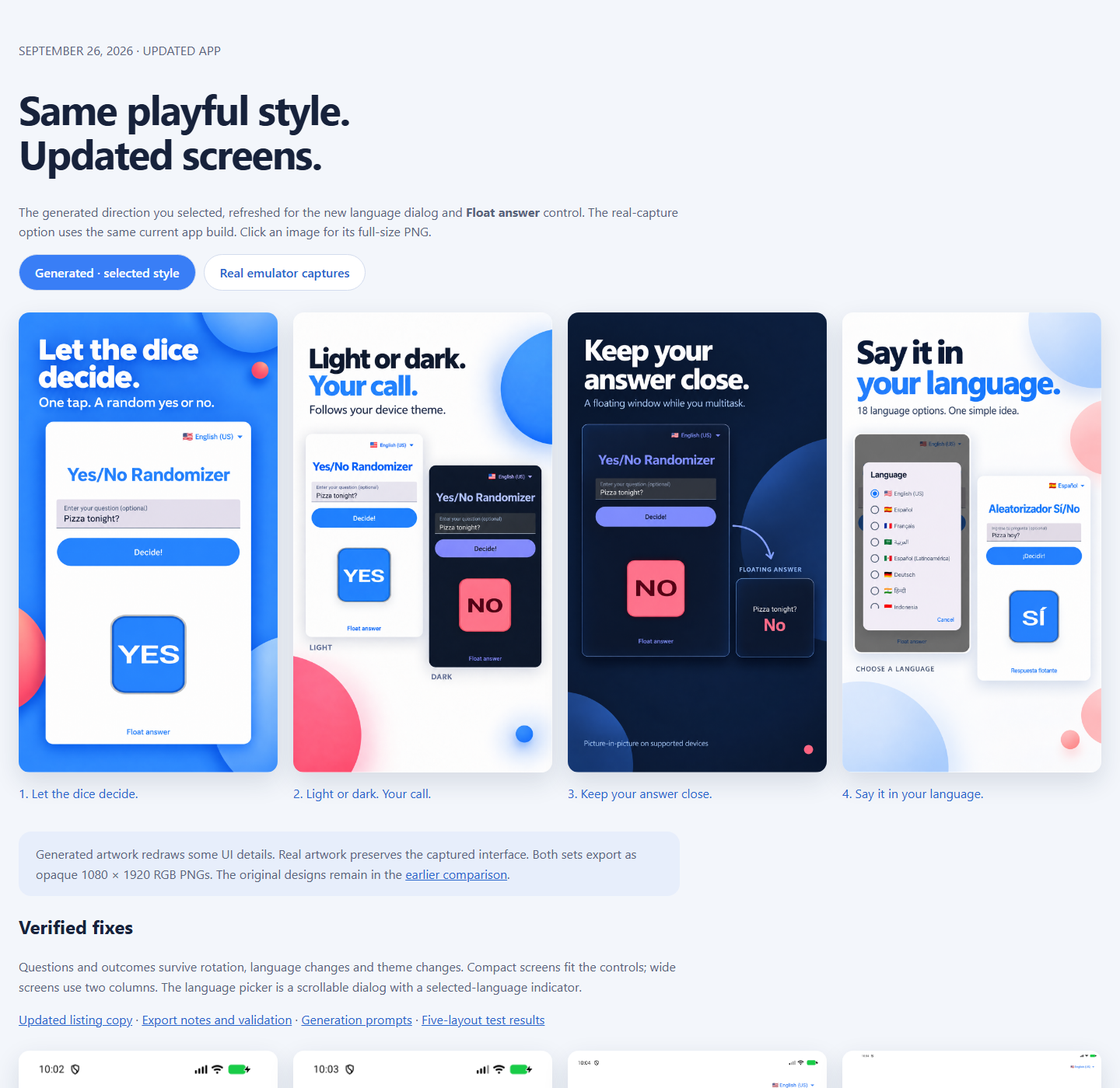
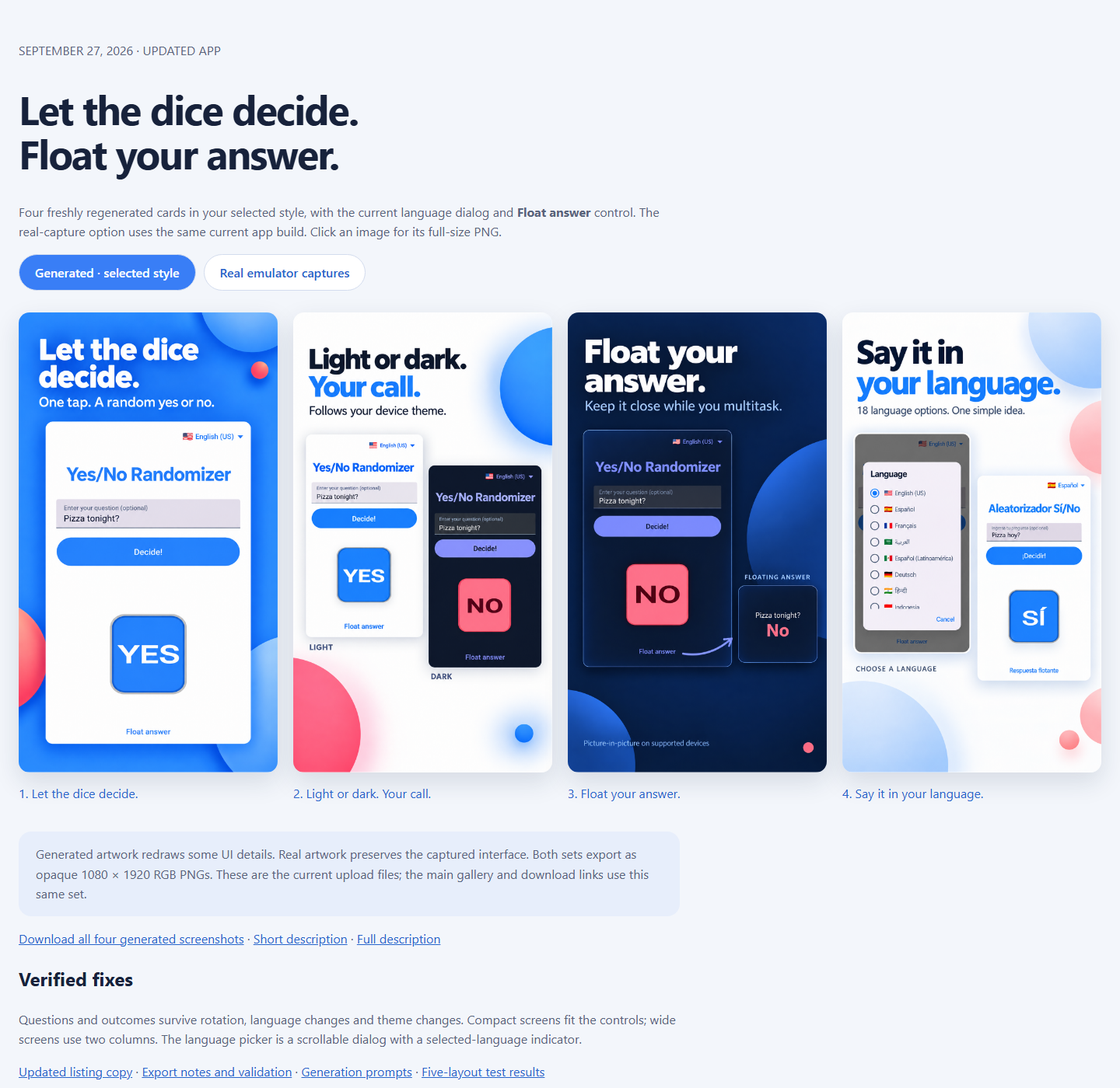
Regenerate store artwork and replace stale screenshot entry points

diff --git a/store-assets/2026-09/updated/review/browser-qa.html b/store-assets/2026-09/updated/review/browser-qa.html
@@ -1,34 +1,54 @@
 <!DOCTYPE html>
-<html lang="en" data-qa="passed"><head><meta charset="utf-8"><meta name="viewport" content="width=device-width, initial-scale=1">
+<html lang="en" data-qa="passed"><head><meta charset="utf-8">
+<meta name="viewport" content="width=device-width, initial-scale=1">
 <title>Yes/No Randomizer — updated store screenshots</title>
 <style>
-*{box-sizing:border-box}body{margin:0;background:#f3f6fb;color:#17223b;font:16px/1.6 'Segoe UI',sans-serif}main{max-width:1450px;margin:auto;padding:36px 24px}h1{font-size:clamp(32px,4vw,52px);line-height:1.08;letter-spacing:-1.8px}p{max-width:850px;color:#58647b}button,a{color:#2765cc}button{border:1px solid #d3dcee;border-radius:30px;background:white;padding:12px 20px;cursor:pointer;font:600 16px 'Segoe UI'}button.active{background:#397ef6;color:white}.grid{display:grid;grid-template-columns:repeat(4,1fr);gap:20px;margin:28px 0}.grid img{width:100%;border-radius:14px;box-shadow:0 12px 32px #172b4922}.grid a{text-decoration:none}.grid span{display:block;padding:8px 0}.note{background:#e7eefb;border-radius:16px;padding:16px 22px}footer{margin:40px 0 12px;color:#63718b}nav{display:flex;gap:10px;flex-wrap:wrap}@media(max-width:900px){.grid{grid-template-columns:repeat(2,1fr)}}@media(max-width:500px){.grid{grid-template-columns:1fr}}
-</style></head><body><main>
-<p>SEPTEMBER 26, 2026 · UPDATED APP</p><h1>Same playful style.<br>Updated screens.</h1>
-<p>The generated direction you selected, refreshed for the new language dialog and <strong>Float answer</strong> control. The real-capture option uses the same current app build. Click an image for its full-size PNG.</p>
-<nav><button class="active" data-kind="generated">Generated · selected style</button><button data-kind="real" class="">Real emulator captures</button></nav>
-<div class="grid" id="cards"><a href="phone/generated/01.png"><img src="phone/generated/01.png" alt="Let the dice decide."><span>1. Let the dice decide.</span></a><a href="phone/generated/02.png"><img src="phone/generated/02.png" alt="Light or dark. Your call."><span>2. Light or dark. Your call.</span></a><a href="phone/generated/03.png"><img src="phone/generated/03.png" alt="Keep your answer close."><span>3. Keep your answer close.</span></a><a href="phone/generated/04.png"><img src="phone/generated/04.png" alt="Say it in your language."><span>4. Say it in your language.</span></a></div>
-<p class="note">Generated artwork redraws some UI details. Real artwork preserves the captured interface. Both sets export as opaque 1080 × 1920 RGB PNGs. The original designs remain in the <a href="../index.html">earlier comparison</a>.</p>
-<h2>Verified fixes</h2><p>Questions and outcomes survive rotation, language changes and theme changes. Compact screens fit the controls; wide screens use two columns. The language picker is a scrollable dialog with a selected-language indicator.</p>
-<p><a href="../listing-en-US.md">Updated listing copy</a> · <a href="README.md">Export notes and validation</a> · <a href="generation-prompts.md">Generation prompts</a> · <a href="layout-checks/results.json">Five-layout test results</a></p>
-<div class="grid" id="layouts"><a href="layout-checks/compact-portrait.png"><img loading="lazy" src="layout-checks/compact-portrait.png" alt="compact-portrait"><span>compact portrait</span></a><a href="layout-checks/compact-landscape.png"><img loading="lazy" src="layout-checks/compact-landscape.png" alt="compact-landscape"><span>compact landscape</span></a><a href="layout-checks/tablet-portrait.png"><img loading="lazy" src="layout-checks/tablet-portrait.png" alt="tablet-portrait"><span>tablet portrait</span></a><a href="layout-checks/tablet-landscape.png"><img loading="lazy" src="layout-checks/tablet-landscape.png" alt="tablet-landscape"><span>tablet landscape</span></a></div>
-<footer>All 18 device tests passed on one Android 17 emulator. Display overrides simulate the form factors shown. No Play Console changes made.</footer>
-</main><script>
-const names=['Let the dice decide.','Light or dark. Your call.','Keep your answer close.','Say it in your language.'];
-function show(kind){document.querySelectorAll('[data-kind]').forEach(b=>b.classList.toggle('active',b.dataset.kind===kind));document.getElementById('cards').innerHTML=names.map((n,i)=>`<a href="phone/${kind}/0${i+1}.png"><img src="phone/${kind}/0${i+1}.png" alt="${n}"><span>${i+1}. ${n}</span></a>`).join('')}
-document.querySelectorAll('[data-kind]').forEach(b=>b.onclick=()=>show(b.dataset.kind));show('generated');
-document.getElementById('layouts').innerHTML=['compact-portrait','compact-landscape','tablet-portrait','tablet-landscape'].map(n=>`<a href="layout-checks/${n}.png"><img loading="lazy" src="layout-checks/${n}.png" alt="${n}"><span>${n.replaceAll('-',' ')}</span></a>`).join('');
-if(new URLSearchParams(location.search).has('qa')) window.addEventListener('load',async()=>{
-  try{
-    for(const kind of ['real','generated']){
-      document.querySelector(`[data-kind="${kind}"]`).click();
-      await Promise.all([...document.querySelectorAll('#cards img')].map(img=>new Promise((resolve,reject)=>{
-        const probe=new Image();probe.onload=()=>probe.naturalWidth===1080&&probe.naturalHeight===1920?resolve():reject(Error('Wrong dimensions'));probe.onerror=reject;probe.src=img.src;
-      })));
-      if(!document.querySelector(`[data-kind="${kind}"]`).classList.contains('active'))throw Error('View toggle failed');
-    }
-    document.documentElement.dataset.qa='passed';
-  }catch(error){document.documentElement.dataset.qa='failed';document.documentElement.dataset.error=String(error)}
-});
+    *{box-sizing:border-box}body{margin:0;background:#f3f6fb;color:#17223b;font:16px/1.6 'Segoe UI',sans-serif}main{max-width:1450px;margin:auto;padding:36px 24px}h1{font-size:clamp(32px,4vw,52px);line-height:1.08;letter-spacing:-1.8px}p{max-width:850px;color:#58647b}button,a{color:#2765cc}button{border:1px solid #d3dcee;border-radius:30px;background:white;padding:12px 20px;cursor:pointer;font:600 16px 'Segoe UI'}button.active{background:#397ef6;color:white}.grid{display:grid;grid-template-columns:repeat(4,1fr);gap:20px;margin:28px 0}.grid img{width:100%;border-radius:14px;box-shadow:0 12px 32px #172b4922}.grid a{text-decoration:none}.grid span{display:block;padding:8px 0}.note{background:#e7eefb;border-radius:16px;padding:16px 22px}footer{margin:40px 0 12px;color:#63718b}nav{display:flex;gap:10px;flex-wrap:wrap}@media(max-width:900px){.grid{grid-template-columns:repeat(2,1fr)}}@media(max-width:500px){.grid{grid-template-columns:1fr}}
+</style>
+</head><body><main>
+    <p>SEPTEMBER 27, 2026 · UPDATED APP</p>
+    <h1>Let the dice decide.<br>Float your answer.</h1>
+    <p>Four freshly regenerated cards in your selected style, with the current language dialog and
+        <strong>Float answer</strong> control. The real-capture option uses the same current app
+        build. Click an image for its full-size PNG.</p>
+    <nav>
+        <button class="active" data-kind="generated">Generated · selected style</button>
+        <button data-kind="real" class="">Real emulator captures</button>
+    </nav>
+    <div class="grid" id="cards"><a href="phone/generated/01.png"><img src="phone/generated/01.png" alt="Let the dice decide."><span>1. Let the dice decide.</span></a><a href="phone/generated/02.png"><img src="phone/generated/02.png" alt="Light or dark. Your call."><span>2. Light or dark. Your call.</span></a><a href="phone/generated/03.png"><img src="phone/generated/03.png" alt="Float your answer."><span>3. Float your answer.</span></a><a href="phone/generated/04.png"><img src="phone/generated/04.png" alt="Say it in your language."><span>4. Say it in your language.</span></a></div>
+    <p class="note">Generated artwork redraws some UI details. Real artwork preserves the captured
+        interface. Both sets export as opaque 1080 × 1920 RGB PNGs. These are the current upload
+        files; the main gallery and download links use this same set.</p>
+    <p><a href="../generated-screenshots.zip" download="">Download all four generated screenshots</a>
+        · <a href="../copy/short-description.txt">Short description</a> · <a href="../copy/full-description.txt">Full description</a></p>
+    <h2>Verified fixes</h2>
+    <p>Questions and outcomes survive rotation, language changes and theme changes. Compact screens
+        fit the controls; wide screens use two columns. The language picker is a scrollable dialog
+        with a selected-language indicator.</p>
+    <p><a href="../listing-en-US.md">Updated listing copy</a> · <a href="README.md">Export notes and
+        validation</a> · <a href="generation-prompts-2026-09-27.md">Generation prompts</a> · <a href="layout-checks/results.json">Five-layout test results</a></p>
+    <div class="grid" id="layouts"><a href="layout-checks/compact-portrait.png"><img loading="lazy" src="layout-checks/compact-portrait.png" alt="compact-portrait"><span>compact portrait</span></a><a href="layout-checks/compact-landscape.png"><img loading="lazy" src="layout-checks/compact-landscape.png" alt="compact-landscape"><span>compact landscape</span></a><a href="layout-checks/tablet-portrait.png"><img loading="lazy" src="layout-checks/tablet-portrait.png" alt="tablet-portrait"><span>tablet portrait</span></a><a href="layout-checks/tablet-landscape.png"><img loading="lazy" src="layout-checks/tablet-landscape.png" alt="tablet-landscape"><span>tablet landscape</span></a></div>
+    <footer>App verification: all 19 device tests passed on one Android 17 emulator. Display
+        overrides simulate the form factors shown. No Play Console changes made.
+    </footer>
+</main>
+<script>
+    const names=['Let the dice decide.','Light or dark. Your call.','Float your answer.','Say it in your language.'];
+    function show(kind){document.querySelectorAll('[data-kind]').forEach(b=>b.classList.toggle('active',b.dataset.kind===kind));document.getElementById('cards').innerHTML=names.map((n,i)=>`<a href="phone/${kind}/0${i+1}.png"><img src="phone/${kind}/0${i+1}.png" alt="${n}"><span>${i+1}. ${n}</span></a>`).join('')}
+    document.querySelectorAll('[data-kind]').forEach(b=>b.onclick=()=>show(b.dataset.kind));show('generated');
+    document.getElementById('layouts').innerHTML=['compact-portrait','compact-landscape','tablet-portrait','tablet-landscape'].map(n=>`<a href="layout-checks/${n}.png"><img loading="lazy" src="layout-checks/${n}.png" alt="${n}"><span>${n.replaceAll('-',' ')}</span></a>`).join('');
+    if(new URLSearchParams(location.search).has('qa')) window.addEventListener('load',async()=>{
+      try{
+        for(const kind of ['real','generated']){
+          document.querySelector(`[data-kind="${kind}"]`).click();
+          await Promise.all([...document.querySelectorAll('#cards img')].map(img=>new Promise((resolve,reject)=>{
+            const probe=new Image();probe.onload=()=>probe.naturalWidth===1080&&probe.naturalHeight===1920?resolve():reject(Error('Wrong dimensions'));probe.onerror=reject;probe.src=img.src;
+          })));
+          if(!document.querySelector(`[data-kind="${kind}"]`).classList.contains('active'))throw Error('View toggle failed');
+        }
+        document.documentElement.dataset.qa='passed';
+      }catch(error){document.documentElement.dataset.qa='failed';document.documentElement.dataset.error=String(error)}
+    });
 </script>
+
 </body></html>

diff --git a/store-assets/2026-09/index.html b/store-assets/2026-09/index.html
@@ -1,38 +1,13 @@
-<!doctype html><html lang="en"><meta charset="utf-8"><meta name="viewport" content="width=device-width, initial-scale=1"><title>Yes/No Randomizer — Store refresh</title>
-<style>
-*{box-sizing:border-box}body{margin:0;background:#f3f6fb;color:#17223b;font:16px/1.55 'Segoe UI',sans-serif}main{max-width:1280px;margin:auto;padding:42px 26px}h1{font-size:clamp(30px,4vw,48px);line-height:1.1;letter-spacing:-1.7px;margin:10px 0 20px}h2{font-size:25px;margin:40px 0 14px}p{max-width:900px;color:#536079}.eyebrow{font-weight:700;font-size:13px;color:#397ef6;letter-spacing:2px}.controls{display:flex;gap:10px;flex-wrap:wrap;margin:24px 0;position:sticky;top:0;padding:14px 0;background:#f3f6fbf2;backdrop-filter:blur(10px);z-index:2}button,.link{border:1px solid #d3dcee;border-radius:30px;background:white;color:#263e66;padding:10px 17px;font:600 14px 'Segoe UI';cursor:pointer;text-decoration:none}button.active{background:#397ef6;border-color:#397ef6;color:white}.comparison{display:grid;grid-template-columns:1fr 1fr;gap:28px;max-width:1050px;margin:auto}.column{min-width:0}.column h3{font-size:18px;margin:0 0 7px}.column p{font-size:14px;margin:0 0 18px}.column img{display:block;width:100%;border-radius:14px;box-shadow:0 12px 38px #172b4922}.column a{color:#397ef6}.note{background:#e7eefb;padding:17px 22px;border-radius:16px;margin-top:24px}.strip{display:grid;grid-template-columns:repeat(4,1fr);gap:14px}.strip img{width:100%;border-radius:9px}.strip span{display:block;font-size:13px;color:#5e6d85}details{background:white;border:1px solid #dbe3ef;padding:16px 20px;border-radius:14px;margin-top:16px}summary{font-weight:650;cursor:pointer}.copy{white-space:pre-line;font-size:16px;max-width:820px}table{width:100%;border-collapse:collapse;font-size:14px}td,th{text-align:left;border-bottom:1px solid #dce4f0;padding:12px}footer{margin-top:40px;font-size:13px;color:#63718b}a{color:#2765cc}.solo .comparison{grid-template-columns:1fr;max-width:540px}.solo.real .generated,.solo.generated .real{display:none}@media(max-width:620px){main{padding:26px 14px}.comparison{gap:12px}.column h3{font-size:16px}.column p{font-size:12px}.strip{grid-template-columns:repeat(2,1fr)}h1{letter-spacing:-1px}td,th{padding:8px}}
-</style>
-<main><div class="eyebrow">YES/NO RANDOMIZER · STORE REFRESH</div><h1>Same story. Two visual directions.</h1><p>Four matching cards: a playful first impression, light and dark themes, the floating answer, and language selection. Compare AI-generated artwork with layouts assembled from actual emulator captures.</p>
-<div class="controls" aria-label="Screenshot selection"><button data-card="01" class="active">1 · Decide</button><button data-card="02">2 · Themes</button><button data-card="03">3 · Floating answer</button><button data-card="04">4 · Languages</button><button id="mode">View: side by side</button></div>
-<div class="comparison"><section class="column generated"><h3>A · AI-generated</h3><p>Richer shading and depth. UI is redrawn; use as a design option.</p><a id="generated-link" href="phone/generated/01.png" target="_blank"><img id="generated" src="phone/generated/01.png" alt="AI-generated decision screenshot artwork"></a></section><section class="column real"><h3>B · Real screenshots</h3><p>Actual captured UI with editable typography and decoration. Recommended for upload.</p><a id="real-link" href="phone/real/01.png" target="_blank"><img id="real" src="phone/real/01.png" alt="Actual app screenshot with promotional typography"></a></section></div>
-<p class="note"><strong>My recommendation: B for the store.</strong> A adds appealing depth, but changes the die shading and UI spacing; its theme card also introduces language-picker chevrons that are absent in the app. B preserves the captured interface. All eight comparison exports are opaque RGB PNGs at 1080 × 1920.</p>
-<p class="note"><strong>Updated app and artwork:</strong> <a href="updated/index.html">Open the September 26 gallery</a>. The comparison on this page is the original review; the issues described below have now been fixed.</p>
-<h2>The real-capture sequence</h2><div class="strip" id="real-strip"></div>
-<h2>The generated sequence</h2><div class="strip" id="generated-strip"></div>
-<h2>Stronger listing copy</h2><p>Keep <strong>Yes/No Randomizer</strong> as the title. Describe the dice, floating answer, themes, and language picker instead of relying on generic promises.</p><p class="note"><strong>Short description</strong><br>Roll the dice for a random yes or no. Make everyday choices a little more fun.</p><a class="link" href="listing-en-US.md">Full description and rationale</a>
-<h2>What the emulator comparison revealed</h2><table><thead><tr><th>Configuration</th><th>Observed behavior</th><th>Improvement worth making</th></tr></thead><tbody><tr><td>XL phone · 448 × 997 dp</td><td>All primary controls fit; generous vertical whitespace.</td><td>Keep a clear relationship between the question and result.</td></tr><tr><td>Phone · 432 × 768 dp</td><td>Title stays on one line and complete result fits.</td><td>Good basis for the current screenshot set.</td></tr><tr><td>Compact · 360 × 640 dp</td><td>Title wraps and die extends below the initial viewport.</td><td>Reduce title size, margins and die size on shorter screens.</td></tr><tr><td>Compact landscape · 640 × 360 dp</td><td>Question/button and result require separate scroll positions.</td><td>Use a two-column landscape layout.</td></tr><tr><td>Tablet portrait · 720 × 1280 dp</td><td>Button and input stretch across a wide screen; die stays relatively small.</td><td>Cap the form width and balance the main content.</td></tr><tr><td>Tablet landscape · 1280 × 720 dp</td><td>Very wide controls; Minimize requires scrolling.</td><td>Use side-by-side form and result areas.</td></tr></tbody></table>
-<p>These are actual runs on one Android 17 emulator with display-size/density overrides—not separate physical-device certifications. Dark-mode changes also reset the completed die to the initial ellipsis while retaining the question.</p>
-<details><summary>See raw evidence and plain tablet screenshots</summary><p><a href="raw/compact-portrait.png">Compact portrait</a> · <a href="raw/compact-landscape-top.png">Landscape top</a> · <a href="raw/compact-landscape-scrolled.png">Landscape scrolled</a> · <a href="raw/tablet-landscape-light-clean.png">Tablet landscape</a> · <a href="raw/phone-pip-home.png">Real floating window</a> · <a href="review/current-play-01.png">Existing store screenshot</a></p><div class="strip" id="tablet-strip"></div></details>
-<details><summary>Export and source files</summary><p><a href="README.md">Package notes and upload order</a> · <a href="audit.md">App/listing review</a> · <a href="generation-prompts.md">Imagegen prompts</a> · <a href="scripts/artwork.html?card=01">Editable real artwork</a></p><p>Run <code>scripts/render.ps1</code> to export real cards and <code>scripts/export-assets.ps1</code> to normalize generated and tablet images. Original emulator captures are retained in <code>raw/</code>.</p></details>
-<footer>Prepared September 23, 2026 · Repository build 3.0 (21) · No Play Console changes made. <a href="https://support.google.com/googleplay/android-developer/answer/9866151">Google Play preview guidance</a></footer></main>
-<script>
-const names=['Decide','Themes','Floating answer','Languages'];let mode=0;
-document.querySelectorAll('[data-card]').forEach(button=>button.onclick=()=>{document.querySelectorAll('[data-card]').forEach(b=>b.classList.toggle('active',b===button));for(const kind of ['generated','real']){const src=`phone/${kind}/${button.dataset.card}.png`;document.getElementById(kind).src=src;document.getElementById(kind).alt=`${kind==='real'?'Real capture':'AI-generated'}: ${names[Number(button.dataset.card)-1]}`;document.getElementById(kind+'-link').href=src;}});
-document.getElementById('mode').onclick=()=>{mode=(mode+1)%3;document.body.className=['','solo generated','solo real'][mode];document.getElementById('mode').textContent=['View: side by side','View: generated only','View: real only'][mode]};
-for(const kind of ['real','generated'])document.getElementById(kind+'-strip').innerHTML=names.map((n,i)=>`<a href="phone/${kind}/0${i+1}.png" target="_blank"><img src="phone/${kind}/0${i+1}.png" alt="${n}"><span>${i+1}. ${n}</span></a>`).join('');
-document.getElementById('tablet-strip').innerHTML=['Light','Dark','Language picker','Spanish'].map((n,i)=>`<a href="tablet/0${i+1}.png" target="_blank"><img loading="lazy" src="tablet/0${i+1}.png" alt="Tablet ${n}"><span>${n}</span></a>`).join('');
-if(new URLSearchParams(location.search).has('qa')){
- window.addEventListener('load',async()=>{
-  try{
-   const images=Array.from(document.images);
-   await Promise.all(images.map(img=>new Promise((resolve,reject)=>{const probe=new Image();probe.onload=()=>probe.naturalWidth===1080&&probe.naturalHeight===1920?resolve():reject(Error('Wrong dimensions'));probe.onerror=reject;probe.src=img.src})));
-   for(const button of document.querySelectorAll('[data-card]')){button.click();for(const kind of ['real','generated'])if(!document.getElementById(kind).src.endsWith(button.dataset.card+'.png'))throw Error('Card navigation failed')}
-   document.querySelector('[data-card="01"]').click();
-   document.getElementById('mode').click();if(!document.body.classList.contains('generated'))throw Error('Generated view failed');
-   document.getElementById('mode').click();if(!document.body.classList.contains('real'))throw Error('Real view failed');
-   document.getElementById('mode').click();if(document.body.className!=='')throw Error('Compare view failed');
-   document.documentElement.dataset.qa='passed';
-  }catch(error){document.documentElement.dataset.qa='failed';document.documentElement.dataset.error=String(error)}
- });
-}
-</script></html>
+<!doctype html>
+<html lang="en">
+<head>
+    <meta charset="utf-8">
+    <meta http-equiv="refresh" content="0; url=updated/index.html">
+    <meta name="viewport" content="width=device-width, initial-scale=1">
+    <title>Yes/No Randomizer - current Play Store artwork</title>
+</head>
+<body>
+<p><a href="updated/index.html">Open the current Play Store screenshots and description.</a></p>
+<p><a href="generated-screenshots.zip">Download the current generated screenshots.</a></p>
+</body>
+</html>

diff --git a/store-assets/2026-09/updated/index.html b/store-assets/2026-09/updated/index.html
@@ -1,33 +1,56 @@
 <!doctype html>
-<html lang="en"><meta charset="utf-8"><meta name="viewport" content="width=device-width, initial-scale=1">
+<html lang="en">
+<meta charset="utf-8">
+<meta name="viewport" content="width=device-width, initial-scale=1">
 <title>Yes/No Randomizer — updated store screenshots</title>
 <style>
-*{box-sizing:border-box}body{margin:0;background:#f3f6fb;color:#17223b;font:16px/1.6 'Segoe UI',sans-serif}main{max-width:1450px;margin:auto;padding:36px 24px}h1{font-size:clamp(32px,4vw,52px);line-height:1.08;letter-spacing:-1.8px}p{max-width:850px;color:#58647b}button,a{color:#2765cc}button{border:1px solid #d3dcee;border-radius:30px;background:white;padding:12px 20px;cursor:pointer;font:600 16px 'Segoe UI'}button.active{background:#397ef6;color:white}.grid{display:grid;grid-template-columns:repeat(4,1fr);gap:20px;margin:28px 0}.grid img{width:100%;border-radius:14px;box-shadow:0 12px 32px #172b4922}.grid a{text-decoration:none}.grid span{display:block;padding:8px 0}.note{background:#e7eefb;border-radius:16px;padding:16px 22px}footer{margin:40px 0 12px;color:#63718b}nav{display:flex;gap:10px;flex-wrap:wrap}@media(max-width:900px){.grid{grid-template-columns:repeat(2,1fr)}}@media(max-width:500px){.grid{grid-template-columns:1fr}}
-</style><main>
-<p>SEPTEMBER 26, 2026 · UPDATED APP</p><h1>Same playful style.<br>Updated screens.</h1>
-<p>The generated direction you selected, refreshed for the new language dialog and <strong>Float answer</strong> control. The real-capture option uses the same current app build. Click an image for its full-size PNG.</p>
-<nav><button class="active" data-kind="generated">Generated · selected style</button><button data-kind="real">Real emulator captures</button></nav>
-<div class="grid" id="cards"></div>
-<p class="note">Generated artwork redraws some UI details. Real artwork preserves the captured interface. Both sets export as opaque 1080 × 1920 RGB PNGs. The original designs remain in the <a href="../index.html">earlier comparison</a>.</p>
-<h2>Verified fixes</h2><p>Questions and outcomes survive rotation, language changes and theme changes. Compact screens fit the controls; wide screens use two columns. The language picker is a scrollable dialog with a selected-language indicator.</p>
-<p><a href="../listing-en-US.md">Updated listing copy</a> · <a href="README.md">Export notes and validation</a> · <a href="generation-prompts.md">Generation prompts</a> · <a href="layout-checks/results.json">Five-layout test results</a></p>
-<div class="grid" id="layouts"></div>
-<footer>All 18 device tests passed on one Android 17 emulator. Display overrides simulate the form factors shown. No Play Console changes made.</footer>
-</main><script>
-const names=['Let the dice decide.','Light or dark. Your call.','Keep your answer close.','Say it in your language.'];
-function show(kind){document.querySelectorAll('[data-kind]').forEach(b=>b.classList.toggle('active',b.dataset.kind===kind));document.getElementById('cards').innerHTML=names.map((n,i)=>`<a href="phone/${kind}/0${i+1}.png"><img src="phone/${kind}/0${i+1}.png" alt="${n}"><span>${i+1}. ${n}</span></a>`).join('')}
-document.querySelectorAll('[data-kind]').forEach(b=>b.onclick=()=>show(b.dataset.kind));show('generated');
-document.getElementById('layouts').innerHTML=['compact-portrait','compact-landscape','tablet-portrait','tablet-landscape'].map(n=>`<a href="layout-checks/${n}.png"><img loading="lazy" src="layout-checks/${n}.png" alt="${n}"><span>${n.replaceAll('-',' ')}</span></a>`).join('');
-if(new URLSearchParams(location.search).has('qa')) window.addEventListener('load',async()=>{
-  try{
-    for(const kind of ['real','generated']){
-      document.querySelector(`[data-kind="${kind}"]`).click();
-      await Promise.all([...document.querySelectorAll('#cards img')].map(img=>new Promise((resolve,reject)=>{
-        const probe=new Image();probe.onload=()=>probe.naturalWidth===1080&&probe.naturalHeight===1920?resolve():reject(Error('Wrong dimensions'));probe.onerror=reject;probe.src=img.src;
-      })));
-      if(!document.querySelector(`[data-kind="${kind}"]`).classList.contains('active'))throw Error('View toggle failed');
-    }
-    document.documentElement.dataset.qa='passed';
-  }catch(error){document.documentElement.dataset.qa='failed';document.documentElement.dataset.error=String(error)}
-});
-</script></html>
+    *{box-sizing:border-box}body{margin:0;background:#f3f6fb;color:#17223b;font:16px/1.6 'Segoe UI',sans-serif}main{max-width:1450px;margin:auto;padding:36px 24px}h1{font-size:clamp(32px,4vw,52px);line-height:1.08;letter-spacing:-1.8px}p{max-width:850px;color:#58647b}button,a{color:#2765cc}button{border:1px solid #d3dcee;border-radius:30px;background:white;padding:12px 20px;cursor:pointer;font:600 16px 'Segoe UI'}button.active{background:#397ef6;color:white}.grid{display:grid;grid-template-columns:repeat(4,1fr);gap:20px;margin:28px 0}.grid img{width:100%;border-radius:14px;box-shadow:0 12px 32px #172b4922}.grid a{text-decoration:none}.grid span{display:block;padding:8px 0}.note{background:#e7eefb;border-radius:16px;padding:16px 22px}footer{margin:40px 0 12px;color:#63718b}nav{display:flex;gap:10px;flex-wrap:wrap}@media(max-width:900px){.grid{grid-template-columns:repeat(2,1fr)}}@media(max-width:500px){.grid{grid-template-columns:1fr}}
+</style>
+<main>
+    <p>SEPTEMBER 27, 2026 · UPDATED APP</p>
+    <h1>Let the dice decide.<br>Float your answer.</h1>
+    <p>Four freshly regenerated cards in your selected style, with the current language dialog and
+        <strong>Float answer</strong> control. The real-capture option uses the same current app
+        build. Click an image for its full-size PNG.</p>
+    <nav>
+        <button class="active" data-kind="generated">Generated · selected style</button>
+        <button data-kind="real">Real emulator captures</button>
+    </nav>
+    <div class="grid" id="cards"></div>
+    <p class="note">Generated artwork redraws some UI details. Real artwork preserves the captured
+        interface. Both sets export as opaque 1080 × 1920 RGB PNGs. These are the current upload
+        files; the main gallery and download links use this same set.</p>
+    <p><a href="../generated-screenshots.zip" download>Download all four generated screenshots</a>
+        &middot; <a href="../copy/short-description.txt">Short description</a> &middot; <a
+                href="../copy/full-description.txt">Full description</a></p>
+    <h2>Verified fixes</h2>
+    <p>Questions and outcomes survive rotation, language changes and theme changes. Compact screens
+        fit the controls; wide screens use two columns. The language picker is a scrollable dialog
+        with a selected-language indicator.</p>
+    <p><a href="../listing-en-US.md">Updated listing copy</a> · <a href="README.md">Export notes and
+        validation</a> · <a href="generation-prompts-2026-09-27.md">Generation prompts</a> · <a
+            href="layout-checks/results.json">Five-layout test results</a></p>
+    <div class="grid" id="layouts"></div>
+    <footer>App verification: all 19 device tests passed on one Android 17 emulator. Display
+        overrides simulate the form factors shown. No Play Console changes made.
+    </footer>
+</main>
+<script>
+    const names=['Let the dice decide.','Light or dark. Your call.','Float your answer.','Say it in your language.'];
+    function show(kind){document.querySelectorAll('[data-kind]').forEach(b=>b.classList.toggle('active',b.dataset.kind===kind));document.getElementById('cards').innerHTML=names.map((n,i)=>`<a href="phone/${kind}/0${i+1}.png"><img src="phone/${kind}/0${i+1}.png" alt="${n}"><span>${i+1}. ${n}</span></a>`).join('')}
+    document.querySelectorAll('[data-kind]').forEach(b=>b.onclick=()=>show(b.dataset.kind));show('generated');
+    document.getElementById('layouts').innerHTML=['compact-portrait','compact-landscape','tablet-portrait','tablet-landscape'].map(n=>`<a href="layout-checks/${n}.png"><img loading="lazy" src="layout-checks/${n}.png" alt="${n}"><span>${n.replaceAll('-',' ')}</span></a>`).join('');
+    if(new URLSearchParams(location.search).has('qa')) window.addEventListener('load',async()=>{
+      try{
+        for(const kind of ['real','generated']){
+          document.querySelector(`[data-kind="${kind}"]`).click();
+          await Promise.all([...document.querySelectorAll('#cards img')].map(img=>new Promise((resolve,reject)=>{
+            const probe=new Image();probe.onload=()=>probe.naturalWidth===1080&&probe.naturalHeight===1920?resolve():reject(Error('Wrong dimensions'));probe.onerror=reject;probe.src=img.src;
+          })));
+          if(!document.querySelector(`[data-kind="${kind}"]`).classList.contains('active'))throw Error('View toggle failed');
+        }
+        document.documentElement.dataset.qa='passed';
+      }catch(error){document.documentElement.dataset.qa='failed';document.documentElement.dataset.error=String(error)}
+    });
+</script>
+</html>

diff --git a/store-assets/2026-09/updated/generation-prompts-2026-09-27.md b/store-assets/2026-09/updated/generation-prompts-2026-09-27.md
@@ -1,0 +1,27 @@
+# September 27 generated screenshot prompts
+
+Built-in imagegen tool; no CLI/API fallback. Each card uses the preceding approved generated card as a style/composition reference and the listed real captures as authoritative UI references. Final originals are retained in `review/generated-originals/`; upload exports are in `phone/generated/`.
+
+## 01
+
+Inputs, in order (relative to this folder): `phone/generated/01.png`, `raw/phone-light-roll-2.png`. The first input refers to the pre-refresh artwork preserved in Git commit 97eb90c.
+
+Use case: ads-marketing. Regenerate a polished Google Play screenshot card in the approved clean, playful style with bold short headlines. Output a single opaque portrait 9:16 PNG, ideally 1080x1920. First reference is style/composition; remaining images are authoritative real app UI references. Preserve their wording and layout closely, crop out only Android system bars. Smooth blue/coral circular edge decorations, crisp typography, restrained shadows. No phone hardware frames, no ratings, no badges, no invented controls. CRITICAL: every visible English bottom action must read exactly 'Float answer'. Never 'Minimize', never 'Floating answer' as an app button. The language selector is flag plus text and triangle with NO filled capsule behind it. App screenshots stay flat and legible with all controls visible. Exact white headline on vivid blue: 'Let the dice decide.' Exact subtitle: 'One tap. A random yes or no.' One large upright white app panel. English (US), Yes/No Randomizer, Enter your question (optional), Pizza tonight?, Decide!, blue YES die, Float answer. Use the real screenshot's font proportions and flat theme colors. Keep the headline in the top quarter, app panel below with comfortable margins.
+
+## 02
+
+Inputs, in order (relative to this folder): `phone/generated/02.png`, `raw/phone-light-roll-2.png`, `raw/phone-dark-rolled.png`. The first input refers to the pre-refresh artwork preserved in Git commit 97eb90c.
+
+Use case: ads-marketing. Regenerate a polished Google Play screenshot card in the approved clean, playful style with bold short headlines. Output a single opaque portrait 9:16 PNG, ideally 1080x1920. First reference is style/composition; remaining images are authoritative real app UI references. Preserve their wording and layout closely, crop out only Android system bars. Smooth blue/coral circular edge decorations, crisp typography, restrained shadows. No phone hardware frames, no ratings, no badges, no invented controls. CRITICAL: every visible English bottom action must read exactly 'Float answer'. Never 'Minimize', never 'Floating answer' as an app button. The language selector is flag plus text and triangle with NO filled capsule behind it. App screenshots stay flat and legible with all controls visible. Exact headline 'Light or dark.' then 'Your call.' Exact subtitle 'Follows your device theme.' White backdrop with navy/blue headline. Two upright staggered screenshot panels, light left and dark right. Labels LIGHT and DARK outside panels. Both have English (US), Yes/No Randomizer, Enter your question (optional), Pizza tonight?, Decide!, Float answer. Blue YES left, pink NO right. Each panel shows its complete content, no overlap over controls. Match the real references; navy dark background and lavender controls.
+
+## 03
+
+Inputs, in order (relative to this folder): `phone/generated/03.png`, `raw/phone-dark-rolled.png`, `raw/phone-pip-home.png`. The first input refers to the pre-refresh artwork preserved in Git commit 97eb90c.
+
+Use case: ads-marketing. Regenerate a polished Google Play screenshot card in the approved clean, playful style with bold short headlines. Output a single opaque portrait 9:16 PNG, ideally 1080x1920. First reference is style/composition; remaining images are authoritative real app UI references. Preserve their wording and layout closely, crop out only Android system bars. Smooth blue/coral circular edge decorations, crisp typography, restrained shadows. No phone hardware frames, no ratings, no badges, no invented controls. CRITICAL: every visible English bottom action must read exactly 'Float answer'. Never 'Minimize', never 'Floating answer' as an app button. The language selector is flag plus text and triangle with NO filled capsule behind it. App screenshots stay flat and legible with all controls visible. Exact bold white headline 'Float your answer.' Exact subtitle 'Keep it close while you multitask.' Deep navy background. Left: large dark app panel matching reference 2, English (US), Yes/No Randomizer, Enter your question (optional), Pizza tonight?, Decide!, pink NO die, and legible lavender bottom control 'Float answer'. Right: smaller square floating answer panel showing ONLY 'Pizza tonight?' and 'No' in pink on navy, taken from reference 3 without launcher/background/system bars. Curve a simple lavender arrow from the bottom 'Float answer' control toward the small panel. Above small panel exact label 'FLOATING ANSWER'. Footer exact 'Picture-in-picture on supported devices'. Preserve accurate app content and generous clean space.
+
+## 04
+
+Inputs, in order (relative to this folder): `phone/generated/04.png`, `raw/phone-language-picker.png`, `raw/phone-spanish.png`. The first input refers to the pre-refresh artwork preserved in Git commit 97eb90c.
+
+Use case: ads-marketing. Regenerate a polished Google Play screenshot card in the approved clean, playful style with bold short headlines. Output a single opaque portrait 9:16 PNG, ideally 1080x1920. First reference is style/composition; remaining images are authoritative real app UI references. Preserve their wording and layout closely, crop out only Android system bars. Smooth blue/coral circular edge decorations, crisp typography, restrained shadows. No phone hardware frames, no ratings, no badges, no invented controls. CRITICAL: every visible English bottom action must read exactly 'Float answer'. Never 'Minimize', never 'Floating answer' as an app button. The language selector is flag plus text and triangle with NO filled capsule behind it. App screenshots stay flat and legible with all controls visible. Exact headline 'Say it in' then 'your language.' Exact subtitle '18 language options. One simple idea.' White backdrop with navy/blue headline. Two upright staggered panels: left shows actual current Language modal over dimmed English app, with radio selection English (US), then Español, Français, العربية, Español (Latinoamérica), Deutsch, हिन्दी, partially visible Indonesia, and Cancel. Preserve authentic scripts and flags from reference. Label under left panel 'CHOOSE A LANGUAGE'. Right is actual Spanish interface: Español selector, Aleatorizador Sí/No, Ingresa tu pregunta (opcional), Pizza hoy?, ¡Decidir!, blue SÍ die, and bottom action exactly 'Respuesta flotante'. English background bottom control, if visible, reads 'Float answer'. No extra language options, no dropdown menu; the picker is a modal dialog.

diff --git a/store-assets/2026-09/README.md b/store-assets/2026-09/README.md
@@ -1,50 +1,23 @@
-# Yes/No Randomizer — Play Store refresh
+# Yes/No Randomizer - current Play Store package
 
-**September 26 update:** the app issues are fixed. Open the [refreshed gallery](updated/index.html)
-for the selected generated style and real alternatives using the updated UI.
-The assets below retain the original comparison.
+Refreshed September 27, 2026. Open the [current gallery](updated/index.html).
+The main `index.html` opens that gallery automatically.
 
-Open [index.html](index.html) for the interactive side-by-side comparison. Select each feature or switch between generated and real-only views.
+- [Generated screenshots ZIP](generated-screenshots.zip): the four freshly generated cards, in upload order.
+- [Short description](copy/short-description.txt) and [full description](copy/full-description.txt): ready to paste into Play Console.
+- [Listing rationale](listing-en-US.md).
+- [Generation prompts and references](updated/generation-prompts-2026-09-27.md).
+- [Export and validation notes](updated/README.md).
 
-Quick downloads: [real screenshots](real-screenshots.zip), [generated alternatives](generated-screenshots.zip), [plain tablet screenshots](tablet-screenshots.zip). The [comparison sheet](review/comparison.png) shows all eight phone designs together.
+The exact English app control is **Float answer**. The third card calls the
+feature **Floating answer** and shows the app alongside its floating window.
+Spanish uses **Respuesta flotante**.
 
-## Deliverables
+The canonical generated files are `updated/phone/generated/01.png` through
+`04.png`. The root `phone/generated/` files and ZIP download mirror that set.
+All four are opaque RGB PNGs at 1080 x 1920. The generated direction redraws
+some UI details; the gallery also retains the real-capture alternative.
 
-| Location | Contents |
-|---|---|
-| `phone/real/01.png`–`04.png` | Recommended: actual emulator captures with HTML/CSS headlines and framing. |
-| `phone/generated/01.png`–`04.png` | AI-generated alternatives for visual comparison. These redraw some UI details. |
-| `tablet/01.png`–`04.png` | Plain 1080 × 1920 tablet-sized emulator screenshots, no added headlines. |
-| `raw/` | Original emulator evidence, including compact and landscape layouts. |
-| `review/generated-originals/` | Original 941 × 1672 imagegen outputs, retained before proportional export to 1080 × 1920. |
-| [listing-en-US.md](listing-en-US.md) | Proposed title, short/full description, and rationale. |
-| `copy/` | Plain-text listing fields ready to paste into Play Console. |
-| [audit.md](audit.md) | Listing review, emulator configurations, observed issues and recommendations. |
-| [generation-prompts.md](generation-prompts.md) | Exact prompts used with the built-in imagegen tool. |
-
-All final phone images and tablet exports are opaque, 24-bit RGB PNGs at 1080 × 1920. AI outputs are proportionally enlarged to that export size; the original generated images are retained. Real artwork uses uniformly scaled/cropped screenshots, not redrawn UI. Status/navigation bars are cropped out of promotional phone panels. The PiP panel is a crop of the actual Android floating window, paired with its matching full-screen result.
-
-## Order and alt text
-
-| Order | Headline | Alt text (under 140 characters) |
-|---|---|---|
-| 01 | Let the dice decide. | A pizza question, Decide button and blue Yes die in Yes/No Randomizer. |
-| 02 | Light or dark. Your call. | Light and dark app themes shown side by side with blue Yes and pink No dice. |
-| 03 | Keep your answer close. | The full app beside its floating answer window showing the same pizza question and No result. |
-| 04 | Say it in your language. | The language picker beside the Spanish interface and its blue Sí result. |
-
-Tablet alt text: 01 “Yes/No Randomizer in light mode on a tablet-sized screen.” 02 “Yes/No Randomizer in dark mode on a tablet-sized screen.” 03 “The tablet language menu with all 18 language options visible.” 04 “The Spanish app interface on a tablet-sized screen.”
-
-## Regenerate
-
-Run from the repository root on this Windows machine:
-
-```powershell
-.\store-assets\2026-09\scripts\render.ps1
-.\store-assets\2026-09\scripts\export-assets.ps1
-python store-assets/2026-09/scripts/validate.py
-```
-
-The renderer uses installed Chrome in headless mode and Segoe UI. `scripts/artwork.html?card=01` through `04` contains the editable designs. `scripts/capture.py` uses ADB to inspect controls, enter a question, tap a label or capture actual pixels from emulator-5554. It does not force answers; outcomes in captures came from normal random rolls.
-
-Only one Android 17 emulator was used, with display overrides for six layout configurations. See the audit for limitations. The build passed; this asset task did not change the app source or publish to Play Console.
+Older raw captures and the original audit are historical records, not the
+current upload set. Use the gallery or ZIP above. No Play Console changes were
+made.

diff --git a/store-assets/2026-09/updated/README.md b/store-assets/2026-09/updated/README.md
@@ -1,38 +1,41 @@
-# Updated Play Store screenshots
+# Current Play Store screenshots
 
-Open [index.html](index.html) to switch between the refreshed generated direction
-and the real-capture alternative. Earlier artwork remains one directory above.
+Regenerated September 27, 2026 with the built-in imagegen tool in the selected
+clean, playful style. Open [index.html](index.html) for all four cards and the
+real-capture alternative. [Download the generated set](../generated-screenshots.zip).
 
-- `phone/generated/01.png` through `04.png`: selected generated style, updated
-  for the current app. Built-in imagegen was used; [exact prompts](generation-prompts.md)
-  and original outputs are retained. Generated UI still has small differences in
-  typography, spacing and die shading.
-- `phone/real/01.png` through `04.png`: current real emulator captures with the
-  existing HTML/CSS composition. No app pixels are redrawn.
-- `raw/`: current light/dark, PiP, language-dialog and Spanish captures. The
-  results came from normal random rolls, selected for a blue Yes/pink No pair.
-- `layout-checks/`: current compact phone, regular phone and tablet captures,
-  plus the five passing instrumentation results. These are real display overrides
-  on one API 37 emulator, not five separate devices.
-- `validation.json`: image dimensions, opaque RGB format, copy limits and links.
+## Upload order
 
-All eight phone exports are 1080 × 1920 opaque RGB PNGs. Generated originals are
-941 × 1672 and are proportionally enlarged. Order: decision, themes, floating
-answer, languages. Use the corresponding headline as short alt text; the language
-image now shows a scrollable dialog rather than the previous long dropdown.
+1. Let the dice decide.
+2. Light or dark. Your call.
+3. Float your answer.
+4. Say it in your language.
 
-The listing text in [../copy/](../copy/) now says **Float answer**. No Play Console
-changes were made. App fixes passed all 18 device tests, all five layout checks,
-unit tests and debug lint (0 errors, 12 existing warnings).
+`phone/generated/01.png` through `04.png` are the current upload files. All are
+opaque 1080 x 1920 RGB PNGs. Generated originals remain in
+`review/generated-originals/`; the export script scales them proportionally.
+The exact prompts and input reference roles are in [generation-prompts-2026-09-27.md](generation-prompts-2026-09-27.md).
 
-Regenerate real exports from the repository root:
+Every visible English app action reads **Float answer**. Spanish reads
+**Respuesta flotante**. Generated panels can still differ slightly in typography,
+spacing and die shading. `phone/real/` retains the actual-capture alternative.
+The September 26 `raw/` captures already show these current controls and are
+used as authoritative UI references. Later app changes fixed rendering during
+resizing without changing the steady screen layout.
 
-```powershell
-.\store-assets\2026-09\scripts\render.ps1 -AssetRoot D:/github/yes-no-randomizer/store-assets/2026-09/updated -PipY 1104
-.\store-assets\2026-09\scripts\export-assets.ps1 -AssetRoot D:/github/yes-no-randomizer/store-assets/2026-09/updated
-python store-assets/2026-09/scripts/validate.py --updated
-```
+The main gallery, root generated PNGs, and both generated ZIP links now point
+to this set. Previous artwork remains available in Git history.
 
-`capture-updated.py` collects new phone inputs. It restores display/theme settings
-and returns the app to English. The floating-window crop in this capture is
-`x=568, y=1104, width=476, height=476`; inspect its position after recapture.
+The listing [plain-text fields](../copy/) highlight the floating answer and
+preservation across rotation/language changes. The title stays Yes/No Randomizer.
+No Play Console changes were made.
+
+## Validation
+
+Run `python store-assets/2026-09/scripts/validate.py --updated` from the repository
+root to verify dimensions, RGB format, listing limits and local gallery links.
+Run `store-assets/2026-09/scripts/review-updated.ps1` for the browser image/toggle
+checks and gallery preview. See `validation.json` for results.
+
+App verification from the preceding code task: 19 instrumentation tests passed
+on the API 37 emulator. This artwork refresh changes no app source.
